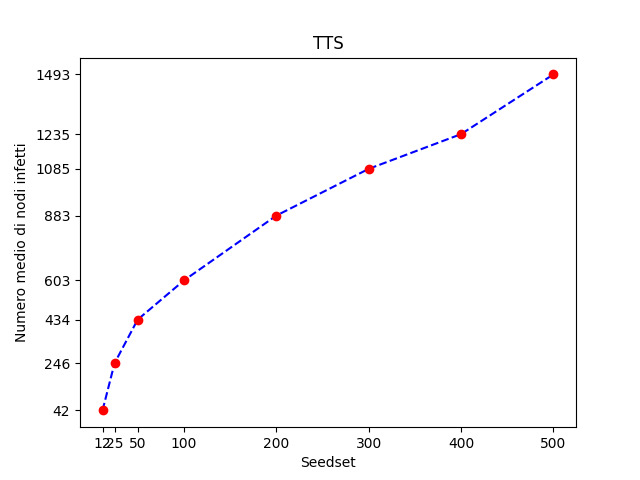
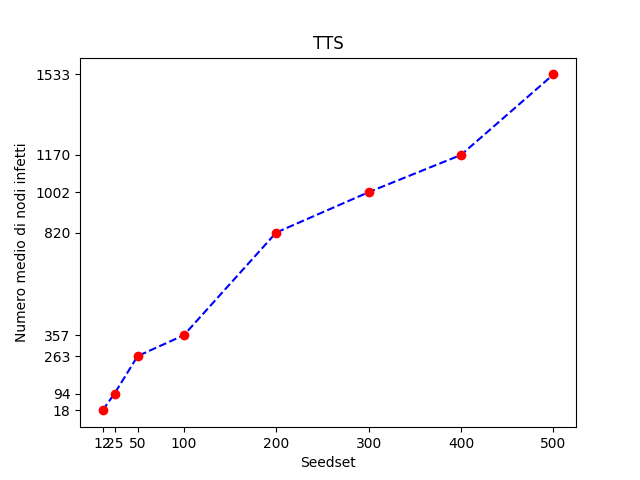
grafici

diff --git a/main.py b/main.py
@@ -60,8 +60,8 @@ def main():
     print("Numero di archi positivi: ", len(edgePositivi))
     print("Numero di archi negativi: ", len(edgeNegativi))
 
-    parallel_seeds_greedy_difference_max(seedset_list,edgePositivi, edgeNegativi, threshold)
-    parallel_randomWalk(seedset_list, edgePositivi, edgeNegativi)
+    #parallel_seeds_greedy_difference_max(seedset_list,edgePositivi, edgeNegativi, threshold)
+    #parallel_randomWalk(seedset_list, edgePositivi, edgeNegativi)
     parallel_tts(seedset_list,edgePositivi, edgeNegativi)
     
         
@@ -143,7 +143,7 @@ def test_seeds_greedy_difference_max(edgePositivi, edgeNegativi, threshold, k):
 def test_randomWalk(seedset, edgePositivi, edgeNegativi):
     infectedList = []
     for i in range(10):
-            S = probabilistic_random_walk(G, seedset, 10)
+            S = random_walk(G, seedset, 10)
             print("Iterazione ",i," Grandezza del seed set: ", len(S))
             infezione = activationFunction(G, S, edgePositivi, edgeNegativi, threshold)
             print("Numero di nodi infetti: ", len(infezione),"\n")
@@ -371,22 +371,31 @@ def tts(G,k):
     return S
 
 
-def probabilistic_random_walk(G, k, steps):
-    S = []  # Seed Set inizialmente vuoto
-    for _ in range(k):  # Ripeti k volte, dove k è la dimensione del Seed Set
-        node_id = G.GetRndNId()  # Selezione casuale di un nodo iniziale
-        visited = set()  # Insieme dei nodi visitati durante il random walk
-        for _ in range(steps):  # Ripeti steps volte, dove steps è il numero di passi del random walk
-            visited.add(node_id)  # Aggiungi l'ID del nodo corrente all'insieme dei visitati
+def random_walk(G, k, steps):
+    # k è la dimensione del Seed Set
+    # Steps è il numero di passi del random walk
+    S = []  
+    
+    for _ in range(k):  
+        node_id = G.GetRndNId()  # Nodo random iniziale
+        visited = set()
+
+        for _ in range(steps):  
+            visited.add(node_id)  # Nodo corrente è visited
 
             node = G.GetNI(node_id)
-            neighbors = [node.GetOutNId(e) for e in range(node.GetOutDeg())]  # Ottieni gli ID dei nodi vicini
-            if not neighbors:
-                break  # Se il nodo non ha vicini, termina il random walk
+            neighbors = [node.GetOutNId(e) for e in range(node.GetOutDeg())]  # Salva i vicini del nodo corrente
+            
+            if not neighbors: # Se il nodo non ha vicini, break
+                break  
+            
+            unvisited_neighbors = [n for n in neighbors if n not in visited]  # Filtra chi sono i vicini non visitati
+            if not unvisited_neighbors: # Se non ci sono vicini non visitati, break
+                break  
 
-            node_id = random.choice(neighbors)  # Scegli un ID di nodo vicino casuale come prossimo nodo
+            node_id = random.choice(unvisited_neighbors)  # Sceglie un vicino casuale non visitato come prossimo nodo
 
-        S.append(node_id)  # Aggiungi l'ultimo nodo visitato al Seed Set
+        S.append(node_id) 
 
     return S
 

diff --git a/README.md b/README.md
@@ -1,2 +1,256 @@
-# Progetto Reti Sociali
- 
+## Introduzione
+
+Le interazioni negative sono un fenomeno comune in molti aspetti della società e nelle tecnologie digitali, come le reti social e siti di recensioni come Trustpilot e TripAdvisor. Su queste piattaforme, gli utenti possono esprimere valutazioni positive o negative non solo sui servizi o sui luoghi visitati, ma anche sulle persone che hanno fornito un servizio o gestito un'attività. Queste recensioni possono avere un impatto notevole sull'immagine e sulla reputazione di un'azienda o di un servizio, e possono influenzare le decisioni degli altri utenti.
+
+Analogamente, sulle piattaforme di social media come Facebook o Twitter, gli utenti possono seguire o bloccare altri utenti, creando una dinamica di interazione sia positiva che negativa.
+
+Queste dinamiche non sono limitate al mondo digitale, ma si possono trovare anche in altri contesti come le competizioni tra nazioni o i legami nei sistemi ferromagnetici. 
+
+Le 'signed networks' sono un concetto importante che si riferisce a reti in cui esistono sia interazioni positive che negative.
+
+Una signed network può essere modellata attraverso un grafo non direzionato G=(V, E+ U E-)
+
+* (u,v)∈E+ significa che c’è una interazione positiva tra u e v  
+* (u,v)∈E- significa che c’è una interazione negativa tra u e v
+
+* N+(u) = insieme degli adiacenti di u collegati attraverso link positivi.
+* N-(u) = insieme degli adiacenti di u collegati attraverso link negativi.
+
+L'obiettivo di questo progetto è stato:
+
+A partire da un grafo G =(V, E), fissato una threshold function costante, un intero k e data una distribuzione di probabilità associata agli archi di G siamo andati a:
+
+1. Costruire la signed network G = (V,  E+ U E-).
+2. Determinare il seed-set S, con |S|=k, applicando i seguenti algoritmi: 
+* seeds\_greedy\_difference\_max
+* random\_walk
+* target\_set\_selection
+3. Eseguire il processo di attivazione per determinare l’insieme dei nodi attivati.
+4. Ripetere 10 volte gli step 1. 2. e 3. calcolando la media della size dell’insieme dei nodi attivati.
+5. Rappresentare con grafici i risultati ottenuti.
+
+## Dataset
+
+Il dataset utilizzato è Arxiv GR-QC (General Relativity and Quantum Cosmology), una rete di collaborazione proveniente dall’archivio scientifico arXiv \[1\], esso tratta delle collaborazioni scientifiche tra autori che hanno sottomesso i loro paper nella categoria di Relatività Generale e Cosmologia Quantistica.\[2\]
+Si tratta di un grafo non orientato dove è presented un arco da i a j se l’autore i−esimo è co-autore di un paper con l’autore j−esimo. 
+
+Se un articolo contiene k autori si ottiene un grafo fortemente connesso su k nodi. 
+
+La rete ha le seguenti caratteristiche:
+
+* 5242 nodi e 14496 archi 
+* Grado medio: 5.53
+* Grado massimo: 81
+* Diametro: 13
+* Coefficiente di clustering:  0.53
+* Triangoli: 48285.
+ 
+
+## Dettagli implementativi
+
+Il progetto è stato implementato utilizzando il linguaggio Python nella versione 3.7.9 e la libreria SNAP per la manipolazione delle strutture dati a grafo.
+
+Innanzitutto è stato necessario caricare il grafo presente nel file `ca-GrQc.txt`
+
+`G = snap.LoadEdgeList(snap.PUNGraph, "ca-GrQc.txt", 0, 1)`
+
+è stato creata la signed network
+
+```plaintext
+# Creazione di un grafo con gli archi positivi e negativi
+edgePositivi = []
+edgeNegativi = []
+# Iterazione sugli archi
+for edge in G.Edges():
+u = edge.GetSrcNId()
+v = edge.GetDstNId()
+
+r = np.random.uniform(0, 1) # Numero casuale tra 0 e 1
+if r >= compute_probability(G, u, v):
+edgePositivi.append((u, v))
+else:
+edgeNegativi.append((u, v))
+```
+
+Successivamente viene calcolato il Seedset S con i tre algoritmi scelti
+
+## Seeds Greedy Difference Max
+
+```plaintext
+def seeds_greedy_difference_max(G, edgePositivi, edgeNegativi, threshold, k):
+# Calcola il numero di adiacenti positivi e negativi per ogni nodo
+positive_counts = {}
+negative_counts = {}
+for edge in edgePositivi:
+u = edge[0]
+v = edge[1]
+positive_counts[u] = positive_counts.get(u, 0) + 1
+positive_counts[v] = positive_counts.get(v, 0) + 1
+for edge in edgeNegativi:
+u = edge[0]
+v = edge[1]
+negative_counts[u] = negative_counts.get(u, 0) + 1
+negative_counts[v] = negative_counts.get(v, 0) + 1
+
+# k è la dimensione del seed set
+S = [] # Seed set inizialmente vuoto
+
+while len(S) < k: max_difference=-1 # Differenza massima tra adiacenti positivi e negativi max_deg_node=-1 # Nodo con la differenza massima # Trova il nodo con la differenza massima tra adiacenti positivi e negativi tra i nodi non ancora presenti in S for node in G.Nodes(): if node.GetId() not in S: adj_positive=positive_counts.get(node.GetId(), 0) adj_negative=negative_counts.get(node.GetId(), 0) if ( adj_positive>= adj_negative
+    ): # Se il nodo corrente ha più adiacenti positivi che negativi
+    difference = (
+    adj_positive - adj_negative
+    ) / threshold # Calcola la differenza tra adiacenti positivi e negativi
+    
+    if difference > max_difference:
+    max_difference = difference
+    max_deg_node = node.GetId()
+    
+    S.append(max_deg_node) # Aggiungi il nodo con la differenza massima a S
+    
+    # Aggiorna i conteggi degli archi positivi e negativi dei vicini del nodo selezionato
+    for edge in edgePositivi:
+    u = edge[0]
+    v = edge[1]
+    if u == max_deg_node:
+    positive_counts[v] = positive_counts.get(v, 0) - 1
+    elif v == max_deg_node:
+    positive_counts[u] = positive_counts.get(u, 0) - 1
+    
+    for edge in edgeNegativi:
+    u = edge[0]
+    v = edge[1]
+    if u == max_deg_node:
+    negative_counts[v] = negative_counts.get(v, 0) - 1
+    elif v == max_deg_node:
+    negative_counts[u] = negative_counts.get(u, 0) - 1
+    
+    return S
+    ```
+    
+    ### Target Set Selection
+    
+    ```plaintext
+    def tts(G,k):
+    Grafo = snap.ConvertGraph(type(G), G)
+    thresholdNodes = to_map_threshold(Grafo,2)
+    S = []
+    while Grafo.GetNodes() != 0:
+    deletedNode = None
+    for node in Grafo.Nodes():
+    if thresholdNodes.get(node.GetId()) == 0:
+    for neighbor in node.GetOutEdges():
+    thresholdNodes[neighbor] = (
+    thresholdNodes[neighbor] - 1
+    if thresholdNodes[neighbor] - 1 > 0
+    else 0
+    )
+    deletedNode = node.GetId()
+    Grafo.DelNode(deletedNode)
+    else:
+    if node.GetOutDeg() < thresholdNodes[node.GetId()]: S.append(node.GetId()) for neighbor in node.GetOutEdges(): thresholdNodes[neighbor]=( thresholdNodes[neighbor] - 1 if thresholdNodes[neighbor] - 1> 0
+        else 0
+        )
+        deletedNode = node.GetId()
+        Grafo.DelNode(deletedNode)
+        if deletedNode is None:
+        max_ratio = -1
+        for v in Grafo.Nodes():
+        ratio = thresholdNodes[v.GetId()] / (v.GetOutDeg() * v.GetOutDeg() + 1)
+        if ratio > max_ratio:
+        max_ratio = ratio
+        max_ratio_node = v.GetId()
+        Grafo.DelNode(max_ratio_node)
+        
+        # Prendi i primi k nodi all'interno di S
+        S = S[:k]
+        return S
+        ```
+        
+        ### Random Walk
+        
+        L'algoritmo da noi scelto per la selezione del Seed Set è il Random Walk, esso funziona nel seguente modo:
+        
+        1. Inizialmente, il Seed Set S è vuoto.
+        2. Ripeti il seguente passo k volte (dove k è la dimensione desiderata del Seed Set): 
+        1. Seleziona casualmente un nodo iniziale all'interno del grafo. 
+        2. Esegui un random walk nel grafo a partire dal nodo iniziale con un numero di step fissato, salvando i nodi visitati.
+        3. Aggiungi l'ultimo nodo visitato al Seed Set.
+        3. Restituisci il Seed Set S.
+        
+        Durante il random walk, i nodi vengono visitati in base alle connessioni nel grafo(vicini). L'obiettivo è selezionare i nodi che sono raggiungibili in modo casuale all'interno del grafo, consentendo di coprire diverse porzioni del grafo stesso.
+        
+        L'approccio del random walk può essere utile in situazioni in cui si desidera selezionare nodi che potrebbero essere influenti anche in parti del grafo che risultano meno connesse o meno evidenti del grafo.
+        
+        ```plaintext
+        def random_walk(G, k, steps):
+        S = [] # Seed Set inizialmente vuoto
+        for _ in range(k): # Ripeti k volte, dove k è la dimensione del Seed Set
+        node_id = G.GetRndNId() # Selezione casuale di un nodo iniziale
+        visited = set() # Insieme dei nodi visitati durante il random walk
+        for _ in range(steps): # Ripeti steps volte, dove steps è il numero di passi del random walk
+        visited.add(node_id) # Aggiungi l'ID del nodo corrente all'insieme dei visitati
+        
+        node = G.GetNI(node_id)
+        neighbors = [node.GetOutNId(e) for e in range(node.GetOutDeg())] # Ottieni gli ID dei nodi vicini
+        if not neighbors:
+        break # Se il nodo non ha vicini, termina il random walk
+        
+        node_id = random.choice(neighbors) # Scegli un ID di nodo vicino casuale come prossimo nodo
+        
+        S.append(node_id) # Aggiungi l'ultimo nodo visitato al Seed Set
+        
+        return S
+        ```
+        
+        Dopo aver determinato il Seed Set S è necessaria la funzione di attivazione che va a calcolare il numero di nodi attivo alla fine del processo di diffusione.
+        
+        ```plaintext
+        def activationFunction(G, S, edgePositivi, edgeNegativi, threshold):
+        # definire Insieme degli infetti al tempo t e al tempo t-1
+        # Ciclare finché infectedT!=infectedT1
+        # Ciclare per ogni nodo non infetto
+        # Per ogni nodo v se il numero di archi positivi con gli infetti - il numero di archi negativi con gli infetti è maggiore o uguale alla threshold allora è infetto
+        
+        infectedT = [] # Inizializzo l'insieme degli infetti al tempo t
+        infectedT1 = S # Inizializzo l'insieme degli infetti con il seed set #Insieme degli infetti al tempo t-1
+        notInfected = []
+        for node in G.Nodes():
+        if node.GetId() not in infectedT1:
+        notInfected.append(node.GetId()) # Insieme dei nodi non infetti
+        
+        while (
+        infectedT != infectedT1
+        ): # Ciclo finché l'insieme degli infetti al tempo t è diverso dall'insieme degli infetti al tempo t-1
+        infectedT = infectedT1
+        for v in notInfected:
+        positive = 0
+        negative = 0
+        node = G.GetNI(v)
+        for i in range(node.GetOutDeg()): # Itera sugli archi uscenti
+        neighbor_id = node.GetOutNId(i)
+        if (v, neighbor_id) in edgePositivi or (
+        neighbor_id,
+        v,
+        ) in edgePositivi: # Se l'arco è positivo
+        if neighbor_id in infectedT1:
+        positive += 1
+        elif (v, neighbor_id) in edgeNegativi or (
+        neighbor_id,
+        v,
+        ) in edgeNegativi: # Se l'arco è negativo
+        if neighbor_id in infectedT1:
+        negative += 1
+        if positive - negative >= threshold:
+        infectedT1.append(v)
+        
+        return infectedT1
+        ```
+        
+        Sono state scelte come grandezza k del Seed Set `[12,25,50,100,200,300,400,500]` , per ognuno viene eseguito ciascuno dei tre algoritmi per determinare il Seed Set S, eseguendo poi la funzione di attivazione per definire il numero di nodi attivati.
+        
+        Tutto ciò viene ripetuto 10 volte per poi calcolare la media della size dell’insieme dei nodi attivati.
+        
+        ## **References**
+        
+        \[1\] https://arxiv.org/
+        \[2\] https://snap.stanford.edu/data/ca-GrQc.html
